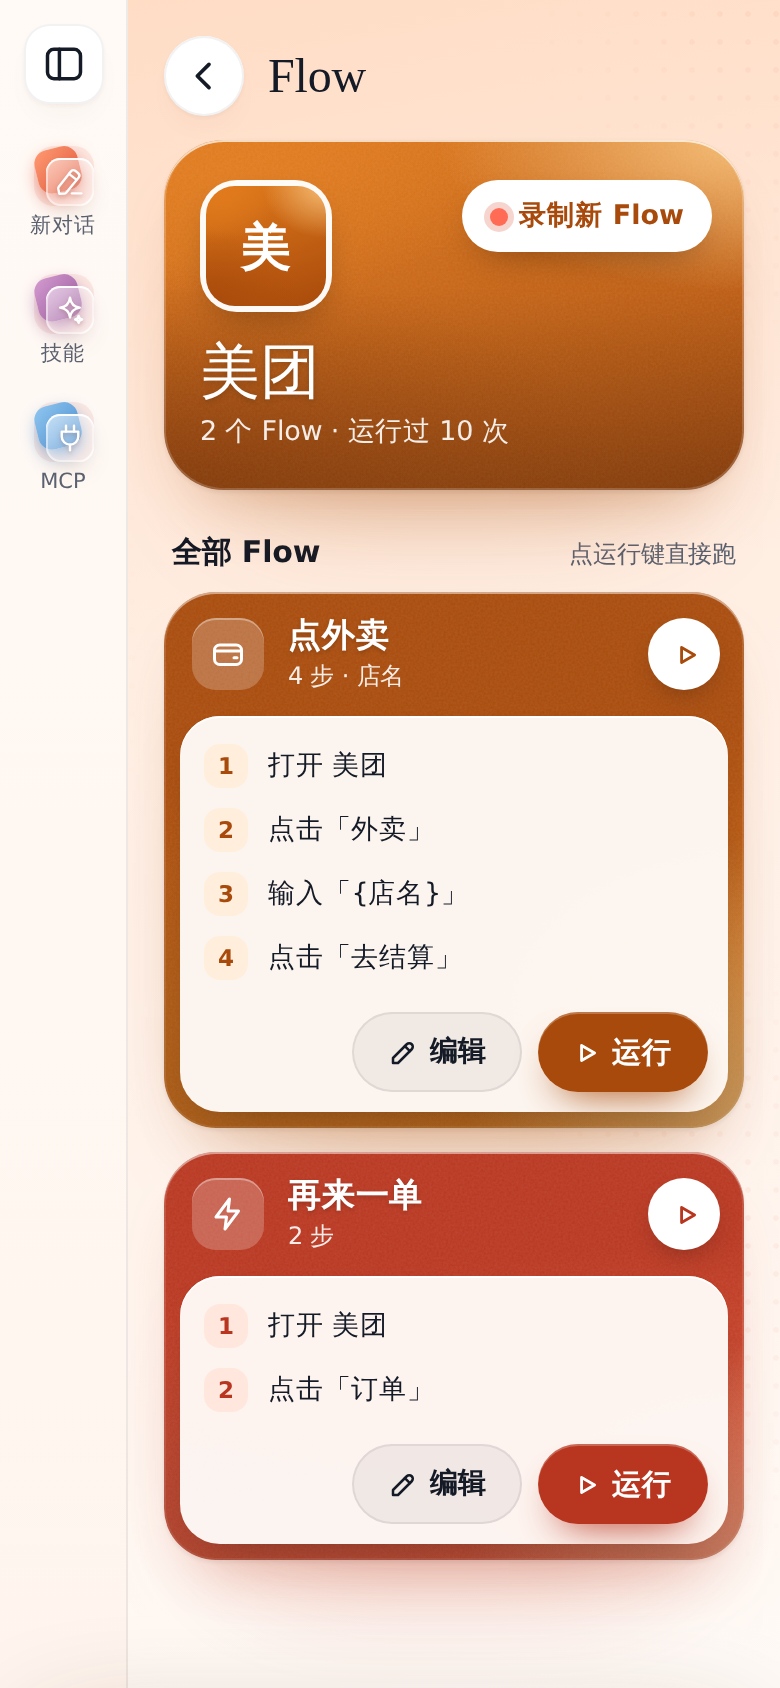
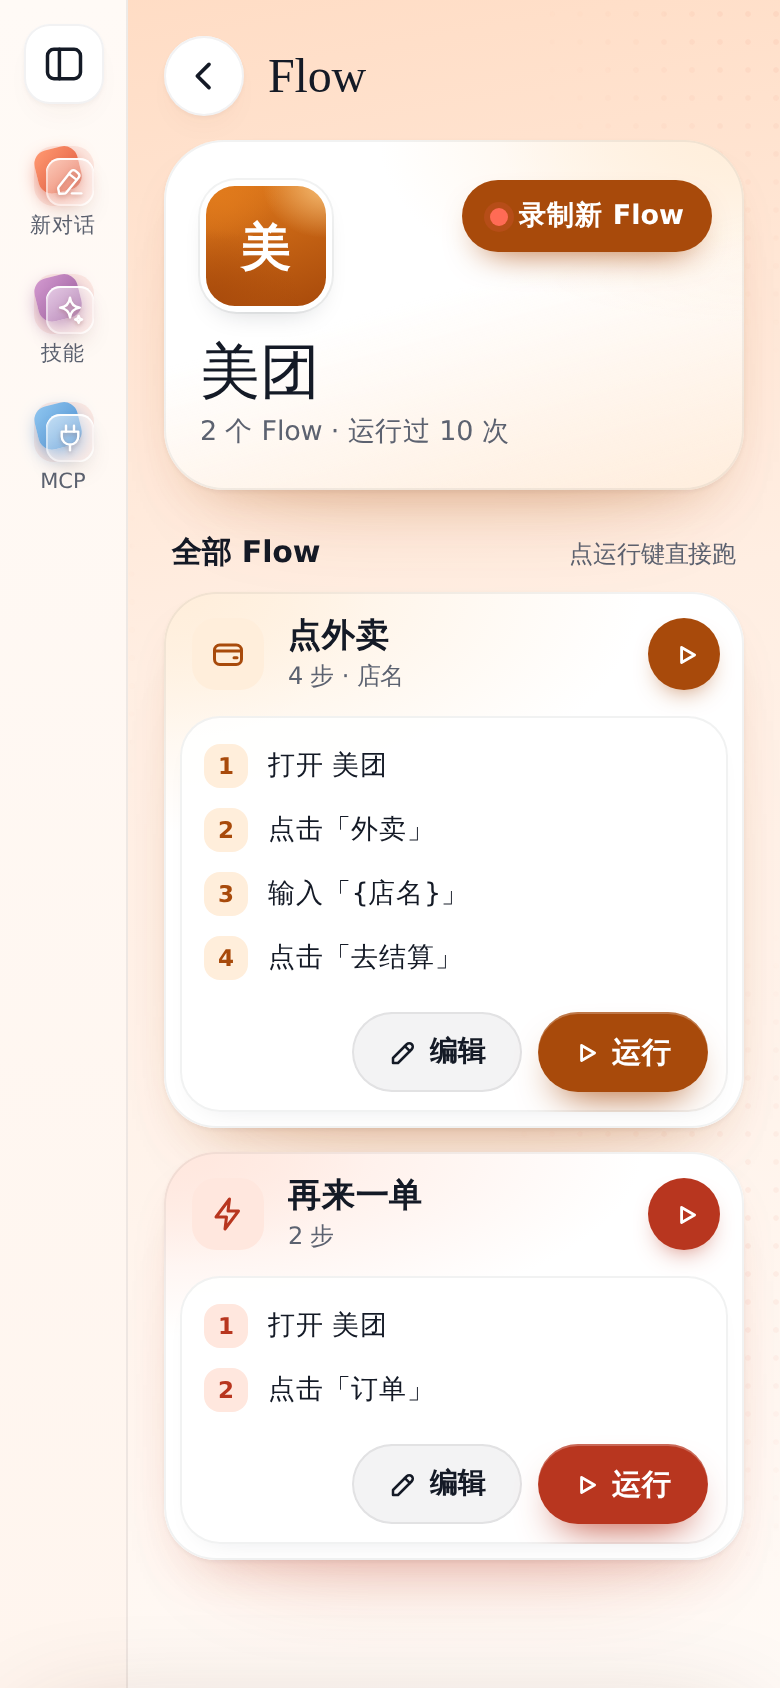
v0.19: Flow 卡片背景改白底 + 对应主题色浅渐变，墨色字，去掉黑纱/颗粒/水印字

Changed region(s): [[0.1846, 0.3389, 0.9538, 0.9242], [0.1846, 0.0616, 0.9538, 0.3081]]

diff --git a/src/index.css b/src/index.css
@@ -1186,3 +1186,32 @@ button.row:active{background:rgba(20,26,38,.03);transform:none}
 .bt.add.ph-row .fa-plus{width:40px;height:40px;border-radius:13px}
 /* 叠卡：后一张卡顶边向上投一层柔影，像实体卡片压在前一张上 */
 .deck:not(.flat) .wcard+.wcard{box-shadow:inset 0 1px 0 rgba(255,255,255,.42),inset 0 0 0 1px rgba(255,255,255,.12),0 -8px 22px -12px rgba(30,10,5,.4),0 18px 34px -18px var(--glow),0 40px 70px -46px var(--glow)}
+
+/* =====================================================================================
+   v0.20 卡片背景：白底 + 一点对应主题色的浅渐变（tint() 的 lightBg / lightTop），墨色字。
+   去掉黑纱、颗粒和大号水印字（bt-mark / wc-no），阴影改成发丝描边 + 带主题色的柔影。布局沿用 v0.19。
+   ===================================================================================== */
+.bt.mesh,.wcard.mesh,.fhero.mesh,.fe-head.mesh,.fapp.mesh,.ftile.mesh{color:#141a26;
+  box-shadow:inset 0 0 0 1px rgba(20,26,38,.06),0 1px 2px rgba(20,26,38,.05),0 14px 30px -18px var(--glow),0 30px 60px -44px var(--glow)}
+.bt.mesh::before,.wcard.mesh::before,.fhero.mesh::before,.fe-head.mesh::before,.fapp.mesh::before,.ftile.mesh::before,.bt.hero.mesh::before{content:none}
+.fapp.mesh::after,.ftile.mesh:not(.busy)::after,.fhero.mesh::after{content:none}
+.deck:not(.flat) .wcard+.wcard{box-shadow:inset 0 0 0 1px rgba(20,26,38,.06),0 -6px 18px -12px rgba(20,26,38,.22),0 14px 30px -18px var(--glow)}
+.bt-mark,.wc-no{display:none}
+.wc-face{justify-content:flex-end}
+/* 文字 */
+.mesh .fa-name,.mesh .fh-name,.mesh .ft-name,.bh-name,.wc-name,.fe-head.mesh .fe-name{color:#141a26;text-shadow:none}
+.mesh .fa-sub,.mesh .fh-sub,.mesh .ft-meta,.bh-sub,.wc-meta,.fe-head.mesh .fe-app{color:#5c6270}
+.fe-head.mesh input::placeholder{color:#8a909c}
+.wc-head{color:#141a26}
+/* 图标底、按钮、胶囊 */
+.mesh .fa-ring,.mesh .fh-ring{background:#fff;box-shadow:0 0 0 1px rgba(20,26,38,.06),0 6px 14px -8px rgba(20,26,38,.25)}
+.mesh .fa-n{background:var(--acc-soft);color:var(--ink)}
+.mesh .ft-glyph,.bh-go{background:var(--acc-soft);color:var(--ink);box-shadow:none}
+.mesh .ft-more{background:var(--acc-soft);color:var(--ink)}
+.mesh .fh-rec{background:var(--ink);color:#fff;box-shadow:0 8px 18px -10px var(--ink)}
+.wcard .ft-play{background:var(--ink);color:#fff;box-shadow:0 6px 14px -8px var(--ink)}
+.bt-pill{background:#fff;color:var(--ink);box-shadow:inset 0 0 0 1px rgba(20,26,38,.08),0 4px 10px -6px rgba(20,26,38,.2)}
+.wc-hint{color:var(--ink);background:var(--acc-soft)}
+.bh-list,.wc-in{background:rgba(255,255,255,.88)}
+.bh-list,.wcard.open .wc-in{box-shadow:inset 0 0 0 1px rgba(20,26,38,.06),0 6px 16px -12px rgba(20,26,38,.18)}
+.mesh .ft-play{background:var(--ink);color:#fff;box-shadow:0 6px 14px -8px var(--ink)}

diff --git a/src/appicon.ts b/src/appicon.ts
@@ -83,11 +83,16 @@ export const meshBg = (f: { deep: string; mid: string; hi: string }) =>
   `radial-gradient(85% 70% at 100% 0%, ${f.hi}cc 0%, ${f.hi}00 62%), radial-gradient(70% 55% at 12% 6%, ${f.mid} 0%, ${f.mid}00 70%), radial-gradient(110% 90% at 0% 100%, ${f.deep} 0%, ${f.deep}00 72%), linear-gradient(160deg, ${f.mid} 0%, ${f.deep} 100%)`
 export const meshTop = (f: { deep: string; mid: string; hi: string }) =>
   `radial-gradient(80% 90% at 100% 100%, ${f.hi}b3 0%, ${f.hi}00 60%), radial-gradient(70% 60% at 88% 92%, ${f.mid} 0%, ${f.mid}00 70%), radial-gradient(120% 70% at 0% 0%, ${f.deep} 0%, ${f.deep}00 75%), linear-gradient(175deg, ${f.deep} 0%, ${f.deep} 30%, ${f.mid} 100%)`
+/** v0.20：卡面改成白底 + 一点对应主题色的浅渐变（右上角 soft 色晕，往右下渐入），字用墨色。 */
+export const lightBg = (f: { mid: string; hi: string; soft: string }) =>
+  `radial-gradient(90% 75% at 100% 0%, ${f.soft} 0%, ${f.soft}00 70%), radial-gradient(60% 50% at 100% 0%, ${f.hi}38 0%, ${f.hi}00 70%), linear-gradient(165deg, #FFFFFF 0%, #FFFFFF 45%, ${f.soft}99 100%)`
+export const lightTop = (f: { mid: string; hi: string; soft: string }) =>
+  `radial-gradient(110% 60% at 0% 0%, ${f.soft} 0%, ${f.soft}00 75%), radial-gradient(50% 40% at 0% 0%, ${f.hi}33 0%, ${f.hi}00 70%), linear-gradient(180deg, #FFFFFF 0%, #FFFFFF 100%)`
 export function tint(l: AppLook, shift = 0) {
   const base = l.sat < 0.18 ? -1 : familyOf((l.hue + 360) % 360)
   const step = Math.round(shift / 18)
   const f = base < 0 ? (step ? FAMILIES[(4 + step + 80) % 8] : GRAPHITE) : FAMILIES[(base + step + 80) % 8]
-  return { fg: '#FFFFFF', bg: meshBg(f), top: meshTop(f), glow: f.deep + '66', solid: f.mid, soft: f.soft, ink: f.deep, icon: meshBg(f), family: f.name }
+  return { fg: '#141A26', bg: lightBg(f), top: lightTop(f), glow: f.deep + '66', solid: f.mid, soft: f.soft, ink: f.deep, icon: meshBg(f), family: f.name }
 }
 
 /** 卡片的 CSS 变量：背景 + --glow 阴影光晕、--ink 深色（白底上的强调字、播放键底色）、--acc-soft 浅底。top=true 用文字在上的 mesh。 */
